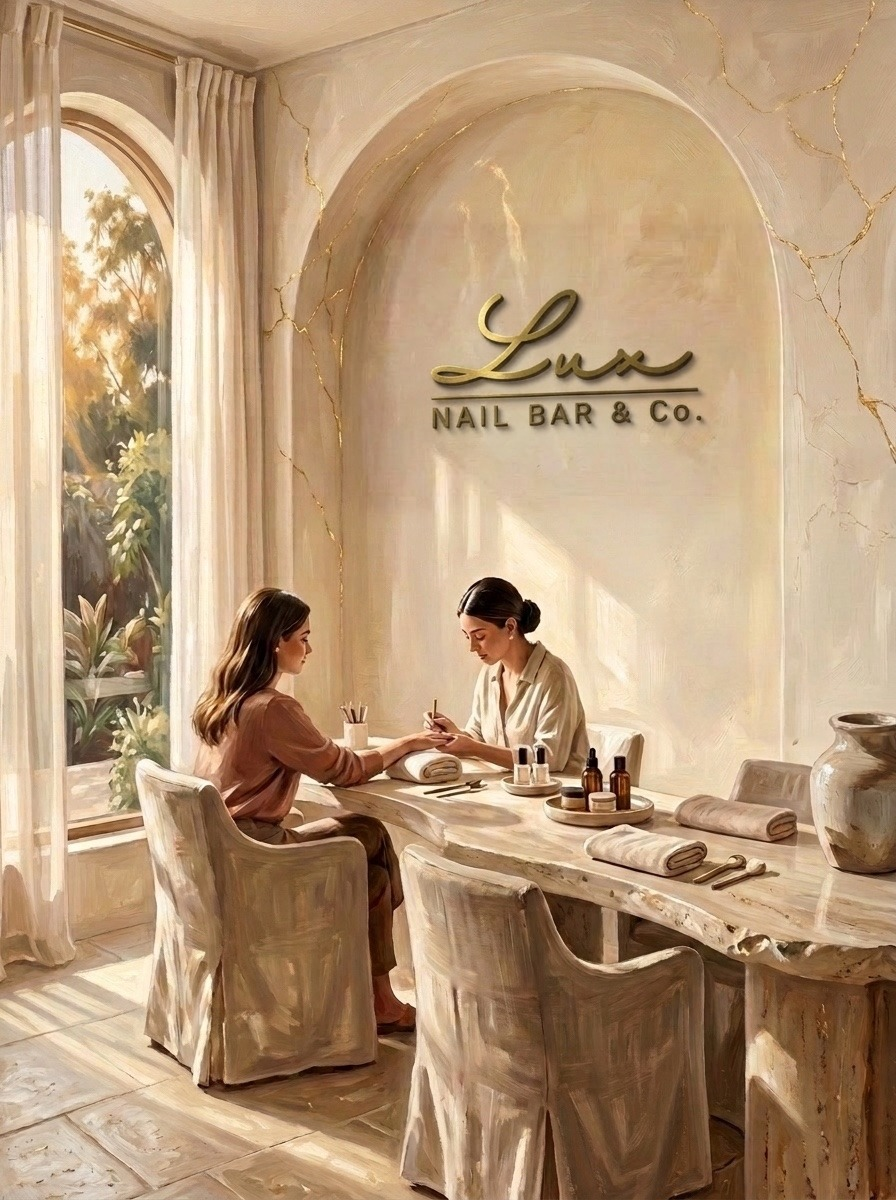
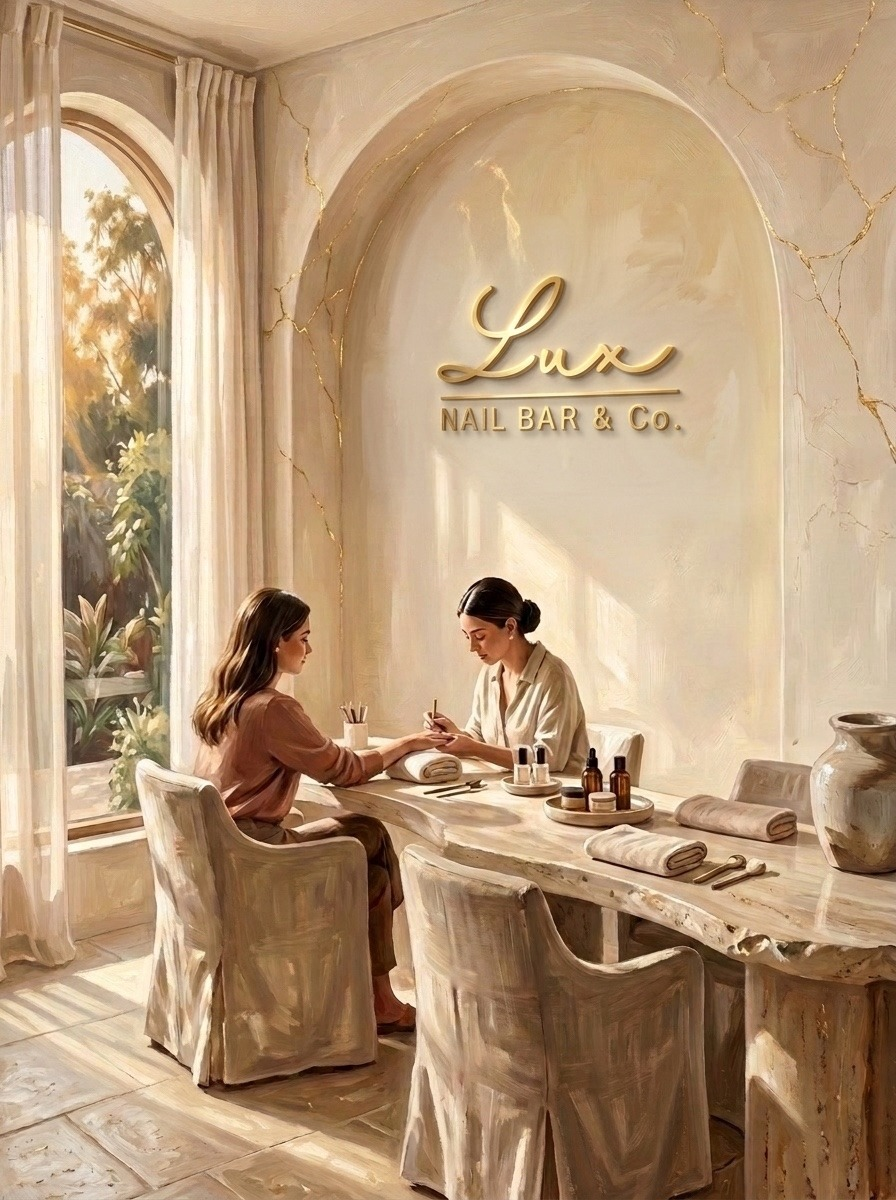
Sync Atelier templates, Before/After slider, Safari arch clip & Hero wall signage

Changed region(s): [[0.4688, 0.2158, 0.8125, 0.37]]

diff --git a/clients/luxnailbarcosouthbank/index.html b/clients/luxnailbarcosouthbank/index.html
@@ -929,67 +929,120 @@
       100% { transform: rotate(0deg) skewX(0deg); }
     }
 
-    @keyframes hero-sun-canopy-drift {
-      0%, 100% { transform: translate3d(-4%, -2%, 0) scale(1); opacity: 0.34; }
-      38% { transform: translate3d(5%, 3%, 0) scale(1.08); opacity: 0.68; }
-      72% { transform: translate3d(1%, -3%, 0) scale(1.03); opacity: 0.40; }
+    @keyframes hero-sun-ray-drift-a {
+      0%, 100% { transform: translate3d(-6%, -4%, 0) scale(1); opacity: 0.42; }
+      42% { transform: translate3d(7%, 4%, 0) scale(1.08); opacity: 0.82; }
+      76% { transform: translate3d(1%, -3%, 0) scale(1.03); opacity: 0.50; }
     }
 
-    @keyframes hero-sun-beam-glide {
-      0%, 100% { transform: translate3d(-4%, -2%, 0) scale(1); opacity: 0.16; }
-      50% { transform: translate3d(5%, 3%, 0) scale(1.06); opacity: 0.36; }
+    @keyframes hero-sun-ray-drift-b {
+      0%, 100% { transform: translate3d(5%, 3%, 0) scale(1.04); opacity: 0.52; }
+      50% { transform: translate3d(-6%, -3%, 0) scale(0.98); opacity: 0.24; }
+    }
+
+    @keyframes hero-sun-glint-twinkle {
+      0%, 100% { transform: scale(0.55) translate3d(0, 0, 0); opacity: 0.12; }
+      45% { transform: scale(1.35) translate3d(2px, -2px, 0); opacity: 0.95; }
+      75% { transform: scale(0.85) translate3d(-1px, 1px, 0); opacity: 0.38; }
+    }
+
+    @keyframes hero-sun-shaft-glide-1 {
+      0%, 100% { transform: translate3d(-4%, -2%, 0) scale(1); opacity: 0.20; }
+      50% { transform: translate3d(5%, 3%, 0) scale(1.06); opacity: 0.44; }
+    }
+
+    @keyframes hero-sun-shaft-glide-2 {
+      0%, 100% { transform: translate3d(3%, 2%, 0) scale(1.03); opacity: 0.34; }
+      50% { transform: translate3d(-4%, -2%, 0) scale(0.98); opacity: 0.14; }
     }
 
     @keyframes hero-sun-mote-float {
-      0% { transform: translate3d(0, 8px, 0) scale(0.75); opacity: 0; }
-      30% { opacity: 0.72; }
-      72% { opacity: 0.46; }
-      100% { transform: translate3d(20px, -26px, 0) scale(1.1); opacity: 0; }
+      0% { transform: translate3d(0, 8px, 0) scale(0.65); opacity: 0; }
+      28% { opacity: 0.88; }
+      72% { opacity: 0.62; }
+      100% { transform: translate3d(24px, -28px, 0) scale(1.15); opacity: 0; }
     }
 
     .hero-sun-canopy {
       position: absolute;
-      left: 3.2%;
-      top: 8.5%;
-      width: 18.5%;
-      height: 61.5%;
-      border-radius: 50% 50% 4% 4% / 22% 22% 2% 2%;
+      left: 5.5%;
+      top: 8.8%;
+      width: 14.5%;
+      height: 60.5%;
+      border-radius: 50% 50% 2% 2% / 18% 18% 2% 2%;
       overflow: hidden;
       pointer-events: none;
     }
-    .hero-sun-canopy-glow {
+    .hero-sun-ray-a {
+      position: absolute;
+      inset: -16%;
+      background:
+        linear-gradient(128deg, rgba(255, 251, 228, 0.85) 8%, rgba(255, 232, 165, 0.52) 38%, rgba(255, 224, 152, 0) 70%),
+        radial-gradient(ellipse 75% 44% at 45% 24%, rgba(255, 252, 232, 0.78) 0%, transparent 66%),
+        radial-gradient(ellipse 68% 40% at 58% 64%, rgba(255, 235, 174, 0.58) 0%, transparent 68%);
+      mix-blend-mode: screen;
+      opacity: 0.38;
+      will-change: transform, opacity;
+    }
+    .hero-sun-ray-b {
       position: absolute;
       inset: -14%;
       background:
-        radial-gradient(ellipse 68% 42% at 38% 28%, rgba(255, 245, 210, 0.76) 0%, transparent 66%),
-        radial-gradient(ellipse 58% 36% at 64% 58%, rgba(255, 232, 178, 0.56) 0%, transparent 64%),
-        radial-gradient(ellipse 74% 38% at 42% 82%, rgba(255, 240, 200, 0.48) 0%, transparent 68%);
+        radial-gradient(ellipse 62% 38% at 34% 46%, rgba(255, 248, 218, 0.70) 0%, transparent 64%),
+        radial-gradient(ellipse 70% 36% at 62% 84%, rgba(255, 232, 168, 0.54) 0%, transparent 68%);
       mix-blend-mode: screen;
-      opacity: 0.28;
+      opacity: 0.24;
       will-change: transform, opacity;
     }
 
-    .hero-sun-beam {
+    .hero-sun-glint {
       position: absolute;
-      left: -6%;
-      top: 12%;
-      width: 68%;
-      height: 74%;
+      width: var(--glint-size, 14px);
+      height: var(--glint-size, 14px);
+      border-radius: 9999px;
       background:
-        linear-gradient(125deg, rgba(255, 244, 212, 0.46) 0%, rgba(255, 232, 184, 0.22) 34%, rgba(255, 224, 172, 0) 68%),
-        radial-gradient(ellipse 65% 48% at 22% 44%, rgba(255, 248, 224, 0.36) 0%, transparent 72%);
-      mix-blend-mode: soft-light;
+        radial-gradient(circle, rgba(255, 253, 236, 0.96) 0%, rgba(255, 228, 152, 0.62) 34%, rgba(255, 214, 128, 0.16) 62%, transparent 76%);
+      mix-blend-mode: screen;
       opacity: 0.18;
+      pointer-events: none;
+      will-change: transform, opacity;
+    }
+
+    .hero-sun-shaft-1 {
+      position: absolute;
+      left: -4%;
+      top: 11%;
+      width: 68%;
+      height: 76%;
+      background:
+        linear-gradient(126deg, rgba(255, 244, 206, 0.44) 0%, rgba(255, 228, 158, 0.22) 34%, rgba(255, 220, 144, 0) 68%),
+        radial-gradient(ellipse 64% 48% at 20% 42%, rgba(255, 250, 226, 0.36) 0%, transparent 72%);
+      mix-blend-mode: screen;
+      opacity: 0.20;
+      pointer-events: none;
+      will-change: transform, opacity;
+    }
+    .hero-sun-shaft-2 {
+      position: absolute;
+      left: 2%;
+      top: 22%;
+      width: 58%;
+      height: 66%;
+      background:
+        linear-gradient(126deg, rgba(255, 248, 220, 0.36) 4%, rgba(255, 226, 156, 0.16) 36%, rgba(255, 218, 140, 0) 66%);
+      mix-blend-mode: screen;
+      opacity: 0.16;
       pointer-events: none;
       will-change: transform, opacity;
     }
 
     .hero-sun-mote {
       position: absolute;
-      width: 4px;
-      height: 4px;
+      width: var(--mote-size, 5px);
+      height: var(--mote-size, 5px);
       border-radius: 9999px;
-      background: radial-gradient(circle, rgba(255, 248, 220, 0.95) 0%, rgba(212, 155, 40, 0.35) 60%, transparent 100%);
+      background: radial-gradient(circle, rgba(255, 252, 232, 0.98) 0%, rgba(255, 220, 128, 0.55) 50%, transparent 100%);
+      mix-blend-mode: screen;
       opacity: 0;
       pointer-events: none;
       will-change: transform, opacity;
@@ -1000,21 +1053,26 @@
         animation: hero-botanical-breeze 9.2s ease-in-out infinite;
         will-change: transform;
       }
-      .hero-sun-canopy-glow {
-        animation: hero-sun-canopy-drift 14s ease-in-out infinite;
+      .hero-sun-ray-a {
+        animation: hero-sun-ray-drift-a 9.5s ease-in-out infinite;
       }
-      .hero-sun-beam {
-        animation: hero-sun-beam-glide 16s ease-in-out infinite;
+      .hero-sun-ray-b {
+        animation: hero-sun-ray-drift-b 13.5s ease-in-out infinite;
+      }
+      .hero-sun-glint {
+        animation: hero-sun-glint-twinkle var(--glint-dur, 6.2s) ease-in-out infinite;
+        animation-delay: var(--glint-delay, 0s);
+      }
+      .hero-sun-shaft-1 {
+        animation: hero-sun-shaft-glide-1 11s ease-in-out infinite;
+      }
+      .hero-sun-shaft-2 {
+        animation: hero-sun-shaft-glide-2 15.5s ease-in-out infinite;
       }
       .hero-sun-mote {
-        animation: hero-sun-mote-float var(--mote-dur, 13s) ease-in-out infinite;
+        animation: hero-sun-mote-float var(--mote-dur, 10.5s) ease-in-out infinite;
         animation-delay: var(--mote-delay, 0s);
       }
-    }
-
-    #hero-canvas-stage[data-motion-paused="true"],
-    #hero-canvas-stage[data-motion-paused="true"] * {
-      animation-play-state: paused !important;
     }
 
     /* Palette-Harmonized Architectural Map Embed (GPU-Isolated, Zero-Jank) */
@@ -1262,7 +1320,7 @@
   "heroStory": "Structured BIAB overlays, fine-art manicure design, and botanical spa rituals—performed unhurriedly with hospital-grade sterilisation.",
   "parkingNote": "Convenient client parking right near Grey St with effortless ground-level boutique arrival.",
   "images": {
-    "hero": "/assets/client-photo-hero.jpg?v=20261126lv2",
+    "hero": "/assets/client-photo-hero.jpg?v=20261126lv3",
     "beforeNail": "https://wynnpages.com.au/assets/atelier/nails/before-natural-nails.jpg?v=20261123hd",
     "afterNail": "https://wynnpages.com.au/assets/atelier/nails/biab-artistry.jpg?v=20261123p1",
     "biabFeature": "https://wynnpages.com.au/assets/atelier/nails/sheer-biab-architecture.jpg?v=20261123p1",
@@ -1292,9 +1350,9 @@
   },
   "livingHero": {
     "enabled": true,
-    "cleanBg": "/assets/client-photo-hero-clean.jpg?v=20261126lv2",
-    "flowersLayer": "/assets/client-photo-hero-flowers.webp?v=20261126lv2",
-    "staticFallback": "/assets/client-photo-hero.jpg?v=20261126lv2"
+    "cleanBg": "/assets/client-photo-hero-clean.jpg?v=20261126lv3",
+    "flowersLayer": "/assets/client-photo-hero-flowers.webp?v=20261126lv3",
+    "staticFallback": "/assets/client-photo-hero.jpg?v=20261126lv3"
   },
   "hours": [
     {
@@ -1657,50 +1715,50 @@
             <div id="hero-scene-lock" class="absolute left-0 w-full" style="top: -3.214%; aspect-ratio: 896 / 1200;">
               <img
                 id="hero-oil-img"
-                src="/assets/client-photo-hero-clean.jpg?v=20261126lv2"
-                alt="Lux Nail Bar &amp; Co. sunlit artisanal nail sanctuary interior oil painting with antique brushed brass wall signage"
+                src="/assets/client-photo-hero-clean.jpg?v=20261126lv3"
+                alt="Lux Nail Bar &amp; Co. sunlit artisanal nail sanctuary interior oil painting with 24k brushed gold wall signage"
                 fetchpriority="high"
                 width="896"
                 height="1200"
-                onerror="this.onerror=null;this.src='/assets/client-photo-hero.jpg?v=20261126lv2';"
+                onerror="this.onerror=null;this.src='/assets/client-photo-hero.jpg?v=20261126lv3';"
                 class="w-full h-full block select-none"
               >
               <div id="hero-window-light" class="hero-living-layer absolute inset-0 pointer-events-none overflow-hidden" aria-hidden="true">
-                <div class="hero-sun-canopy"><div class="hero-sun-canopy-glow"></div></div>
-                <div class="hero-sun-beam"></div>
-                <span class="hero-sun-mote" style="left: 9%; top: 27%; --mote-dur: 12s; --mote-delay: 0s;"></span>
-                <span class="hero-sun-mote" style="left: 14%; top: 38%; --mote-dur: 15s; --mote-delay: -4s;"></span>
-                <span class="hero-sun-mote" style="left: 11%; top: 49%; --mote-dur: 11s; --mote-delay: -7s;"></span>
-                <span class="hero-sun-mote" style="left: 17%; top: 33%; --mote-dur: 16s; --mote-delay: -9s;"></span>
+                <div class="hero-sun-canopy">
+                  <div class="hero-sun-ray-a"></div>
+                  <div class="hero-sun-ray-b"></div>
+                  <span class="hero-sun-glint" style="left: 22%; top: 13%; --glint-size: 16px; --glint-dur: 5.2s; --glint-delay: 0s;"></span>
+                  <span class="hero-sun-glint" style="left: 56%; top: 21%; --glint-size: 14px; --glint-dur: 6.8s; --glint-delay: -1.8s;"></span>
+                  <span class="hero-sun-glint" style="left: 34%; top: 31%; --glint-size: 18px; --glint-dur: 5.8s; --glint-delay: -3.2s;"></span>
+                  <span class="hero-sun-glint" style="left: 70%; top: 39%; --glint-size: 12px; --glint-dur: 7.4s; --glint-delay: -0.9s;"></span>
+                  <span class="hero-sun-glint" style="left: 28%; top: 50%; --glint-size: 15px; --glint-dur: 6.1s; --glint-delay: -4.4s;"></span>
+                  <span class="hero-sun-glint" style="left: 62%; top: 61%; --glint-size: 17px; --glint-dur: 5.4s; --glint-delay: -2.5s;"></span>
+                  <span class="hero-sun-glint" style="left: 42%; top: 75%; --glint-size: 13px; --glint-dur: 7.9s; --glint-delay: -5.1s;"></span>
+                </div>
+                <div class="hero-sun-shaft-1"></div>
+                <div class="hero-sun-shaft-2"></div>
+                <span class="hero-sun-mote" style="left: 8%; top: 24%; --mote-size: 5px; --mote-dur: 9.2s; --mote-delay: 0s;"></span>
+                <span class="hero-sun-mote" style="left: 13%; top: 35%; --mote-size: 6px; --mote-dur: 11.8s; --mote-delay: -2.5s;"></span>
+                <span class="hero-sun-mote" style="left: 10%; top: 47%; --mote-size: 4px; --mote-dur: 8.8s; --mote-delay: -5.2s;"></span>
+                <span class="hero-sun-mote" style="left: 16%; top: 30%; --mote-size: 5px; --mote-dur: 12.6s; --mote-delay: -7.1s;"></span>
+                <span class="hero-sun-mote" style="left: 18%; top: 43%; --mote-size: 4px; --mote-dur: 10.4s; --mote-delay: -3.8s;"></span>
+                <span class="hero-sun-mote" style="left: 12%; top: 56%; --mote-size: 5px; --mote-dur: 11.2s; --mote-delay: -6.4s;"></span>
               </div>
               <img
                 id="hero-flowers-img"
-                src="/assets/client-photo-hero-flowers.webp?v=20261126lv2"
+                src="/assets/client-photo-hero-flowers.webp?v=20261126lv3"
                 alt=""
                 aria-hidden="true"
                 decoding="async"
                 width="230"
                 height="271"
-                onerror="this.style.display='none';var b=document.getElementById('hero-oil-img');if(b){b.src='/assets/client-photo-hero.jpg?v=20261126lv2';}"
+                onerror="this.style.display='none';var b=document.getElementById('hero-oil-img');if(b){b.src='/assets/client-photo-hero.jpg?v=20261126lv3';}"
                 style="left: 74.330%; top: 39.917%; width: 25.670%; height: 22.583%; transform-origin: 85.22% 91.88%;"
                 class="hero-living-layer hero-flowers-sway absolute pointer-events-none select-none block"
               >
             </div>
           </div>
           <div class="absolute inset-0 bg-gradient-to-t from-black/45 via-transparent to-transparent pointer-events-none"></div>
-          <button
-            id="btn-hero-motion-toggle"
-            type="button"
-            aria-label="Pause ambient painting motion"
-            title="Pause ambient painting motion"
-            class="absolute bottom-[84px] sm:bottom-[92px] left-4 sm:left-5 z-10 w-8 h-8 rounded-full atelier-card flex items-center justify-center cursor-pointer transition-transform duration-200 hover:scale-105 active:scale-95"
-            style="color: var(--ink-primary);"
-          >
-            <svg id="hero-motion-icon" class="w-3.5 h-3.5" viewBox="0 0 16 16" fill="currentColor" aria-hidden="true">
-              <rect x="4" y="3" width="2.8" height="10" rx="0.9"></rect>
-              <rect x="9.2" y="3" width="2.8" height="10" rx="0.9"></rect>
-            </svg>
-          </button>
           <!-- Interactive Floating Craft Capsule (Glides to Treatment Matchmaker) -->
           <a
             id="hero-floating-seal"
@@ -2803,11 +2861,8 @@
       const livingCfg = cfg.livingHero || {};
       const staticHeroParam = qsParams.get('static-hero') === '1';
       const useLivingHero = !forceVault && !staticHeroParam && livingCfg.enabled === true && livingCfg.cleanBg && livingCfg.flowersLayer;
-      const heroStage = document.getElementById('hero-canvas-stage');
       const heroSceneLock = document.getElementById('hero-scene-lock');
       const heroFlowersImg = document.getElementById('hero-flowers-img');
-      const heroMotionToggle = document.getElementById('btn-hero-motion-toggle');
-      const heroMotionIcon = document.getElementById('hero-motion-icon');
 
       if (resolvedImages) {
         const heroImg = document.getElementById('hero-oil-img');
@@ -2818,36 +2873,10 @@
           if (heroFlowersImg && heroFlowersImg.getAttribute('src') !== livingCfg.flowersLayer) {
             heroFlowersImg.src = livingCfg.flowersLayer;
           }
-          if (heroMotionToggle) {
-            if (prefersReducedMotion) {
-              heroMotionToggle.style.display = 'none';
-            } else {
-              heroMotionToggle.addEventListener('click', () => {
-                if (!heroStage) return;
-                const nextPaused = heroStage.getAttribute('data-motion-paused') !== 'true';
-                if (nextPaused) {
-                  heroStage.setAttribute('data-motion-paused', 'true');
-                  heroMotionToggle.setAttribute('aria-label', 'Play ambient painting motion');
-                  heroMotionToggle.setAttribute('title', 'Play ambient painting motion');
-                  if (heroMotionIcon) {
-                    heroMotionIcon.innerHTML = '<path d="M5 3.5l8 4.5-8 4.5V3.5z"></path>';
-                  }
-                } else {
-                  heroStage.removeAttribute('data-motion-paused');
-                  heroMotionToggle.setAttribute('aria-label', 'Pause ambient painting motion');
-                  heroMotionToggle.setAttribute('title', 'Pause ambient painting motion');
-                  if (heroMotionIcon) {
-                    heroMotionIcon.innerHTML = '<rect x="4" y="3" width="2.8" height="10" rx="0.9"></rect><rect x="9.2" y="3" width="2.8" height="10" rx="0.9"></rect>';
-                  }
-                }
-              });
-            }
-          }
         } else {
           document.querySelectorAll('.hero-living-layer').forEach((el) => {
             el.style.display = 'none';
           });
-          if (heroMotionToggle) heroMotionToggle.style.display = 'none';
           const fallbackSrc = forceVault
             ? activeVault.hero
             : (livingCfg.staticFallback || resolvedImages.hero);

diff --git a/clients/luxnailbarcosouthbank/ATELIER_MANIFEST.md b/clients/luxnailbarcosouthbank/ATELIER_MANIFEST.md
@@ -19,9 +19,9 @@
 ## Bespoke Brand Identity & Gold-Leaf Assets
 - **Gold-Leaf Calligraphic Logo (`assets/lux-logo.svg`):** Custom 24K gold-leaf 3D vector redraw of the calligraphic `"Lux"` script from the salon's storefront sign, harmonized inside the pearl-gold medallion (`#brand-logo-slot` in Header & Reserve Card seal in `#visit`).
 - **Gold-Leaf `"L"` Favicon (`favicon.svg`, `favicon.png`):** Embossed Palette `01` wax seal bearing the custom 24K gold-leaf calligraphic `"L"` matching the storefront script.
-- **Bespoke 70% Weathered-Brass Hero Oil Painting & Living Layers (`assets/client-photo-hero-clean.jpg`, `assets/client-photo-hero-flowers.webp`, `assets/client-photo-hero.jpg`):**
-  - Custom Palette `01` `896×1200` portrait featuring `"Lux / NAIL BAR & Co."` scaled down to **70%** (`269px` width inside the recessed arch) in rich antique brushed brass with natural surface grain/patina and realistic wall standoff shadows.
-  - **Living Oil Painting Mode (`window.ATELIER_CONFIG.livingHero.enabled: true`):** Renders the clean plaster/vase plate (`client-photo-hero-clean.jpg`) underneath GPU-composited sunlit arched-window light drift + floating golden motes and the transparent difference-matted eucalyptus & wattle bouquet (`client-photo-hero-flowers.webp`, `~23 KB`) swaying gently around the vase rim (`85.22% 91.88%`), complete with an accessible Pause/Play toggle (`#btn-hero-motion-toggle`) and `prefers-reduced-motion` support.
+- **Bespoke 70% 24K Gold Hero Oil Painting & Living Layers (`assets/client-photo-hero-clean.jpg`, `assets/client-photo-hero-flowers.webp`, `assets/client-photo-hero.jpg`):**
+  - Custom Palette `01` `896×1200` portrait featuring `"Lux / NAIL BAR & Co."` scaled to **70%** (`~272px` width inside the recessed arch) in radiant warm 24K brushed champagne gold with airy limestone-taupe wall shadows matching the luminous studio aesthetic.
+  - **Living Oil Painting Mode (`window.ATELIER_CONFIG.livingHero.enabled: true`):** Renders the clean plaster/vase plate (`client-photo-hero-clean.jpg`) underneath shimmering outdoor arched-window canopy rays, 7 golden sun glints, volumetric diagonal morning sun shafts, 6 floating golden dust motes, and the transparent difference-matted eucalyptus & wattle bouquet (`client-photo-hero-flowers.webp`, `23.2 KB`) swaying gently around the vase rim (`85.22% 91.88%`). Clean artwork frame with no overlay pause button, opting into motion strictly under `@media (prefers-reduced-motion: no-preference)`.
   - **Instant Rollback Paths:**
     1. Live A/B Static View: append `?static-hero=1` to URL (`https://luxnailbarcosouthbank.wynnpages.com.au/?static-hero=1`).
     2. Disable Living Motion cleanly: set `window.ATELIER_CONFIG.livingHero.enabled = false` in `index.html` (reverts instantly to the matching static 70%-logo painting `assets/client-photo-hero.jpg`).
